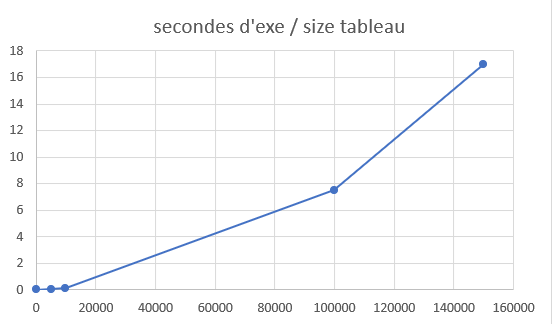
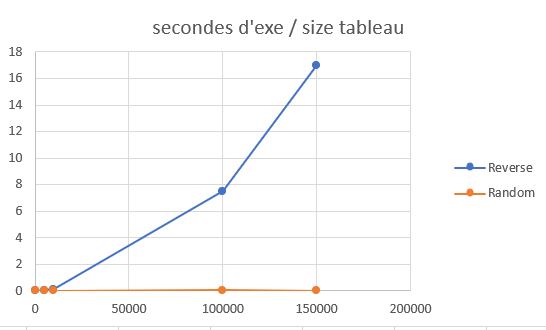
open mp

diff --git a/TP2/quickSortOpenMp.c b/TP2/quickSortOpenMp.c
@@ -1,0 +1,108 @@
+//
+// Created by trist on 10/03/2021.
+//
+
+#include <stdlib.h>
+#include <stdio.h>
+#include <string.h>
+#include <sys/time.h>
+#include <time.h>
+#include <omp.h>
+struct tablo {
+    int * tab;
+    int size;
+};
+void quicksort(struct tablo * ta, int index_min, int index_max) {
+    int i,j;
+    int v, t;
+    if (index_max-index_min<2) return;
+    //partition
+    v = ta->tab[index_min];
+    i=index_min;
+    j=index_max;
+    for(;;) {
+        while (++i < index_max && ta->tab[i] < v);
+        while (--j >= index_min && ta->tab[j] > v);
+        if (i>=j) break;
+        t = ta->tab[i]; ta->tab[i] = ta->tab[j]; ta->tab[j]=t;
+    }
+    t=ta->tab[i-1];
+    ta->tab[i-1]=ta->tab[index_min];
+    ta->tab[index_min]=t;
+#ifdef _OPENMP
+    if(index_max == ta->size) {
+            printf("nthreads %d\n", omp_get_num_threads());
+        }
+        omp_set_max_active_levels(10000);
+#endif
+#pragma omp parallel sections
+    {
+#pragma omp section
+        {
+            quicksort(ta, index_min, i);
+        }
+#pragma omp section
+        {
+            quicksort(ta, i, index_max );
+        }
+    }
+
+}
+void printArray(struct tablo * tmp) {
+    printf("---- Array of size %i ---- \n", tmp->size);
+    int size = tmp->size;
+    int i;
+    for (i = 0; i < size; ++i) {
+        printf("%i ", tmp->tab[i]);
+    }
+    printf("\n");
+}
+struct tablo * allocateTablo(int size) {
+    struct tablo * tmp = malloc(sizeof(struct tablo));
+    tmp->size = size;
+    tmp->tab = malloc(size*sizeof(int));
+    return tmp;
+}
+void generateArray(struct tablo * s) {
+    s->size=8;
+    s->tab=malloc(s->size*sizeof(int));
+    s->tab[0]=3;
+    s->tab[1]=1;
+    s->tab[2]=7;
+    s->tab[3]=0;
+    s->tab[4]=4;
+    s->tab[5]=1;
+    s->tab[6]=6;
+    s->tab[7]=3;
+}
+void generateSortedArray(struct tablo *s, int size) {
+    s->size=size;
+    s->tab=malloc(size*sizeof(int));
+    int i;
+    for(i=0; i<size; i++) {
+        s->tab[i]=i;
+    }
+}
+void generateReverseSortedArray(struct tablo *s, int size) {
+    s->size=size;
+    s->tab=malloc(size*sizeof(int));
+    int i;
+    for(i=0; i<size; i++) {
+        s->tab[i]=size-i;
+    }
+}
+void generateReverseSortedArrayRand(struct tablo *s, int size) {
+    srand(time(NULL));
+    s->size=size;
+    s->tab=malloc(size*sizeof(int));
+    int i;
+    for(i=0; i<size; i++) {
+        s->tab[i]=rand() % 1000;
+    }
+}
+int main(int argc, char **argv) {
+    struct tablo * tmp = malloc(sizeof(struct tablo));
+    generateReverseSortedArray(tmp, atoi(argv[1]));
+    // printArray(tmp);
+    quicksort(tmp,0, tmp->size);
+}

diff --git a/TP2/READMe.md b/TP2/READMe.md
@@ -36,4 +36,12 @@ real    0m7,509s
 user    0m7,494s
 sys     0m0,012s
 ```
+
+### avec Random
+`gcc -o quicksortR quicksortRandom.c`
+
 ![GitHub Logo](../img/TD%202.1.PNG)
+
+### with Open MP
+`gcc -o quicksortOpenMp quickSortOpenMp.c`
+
